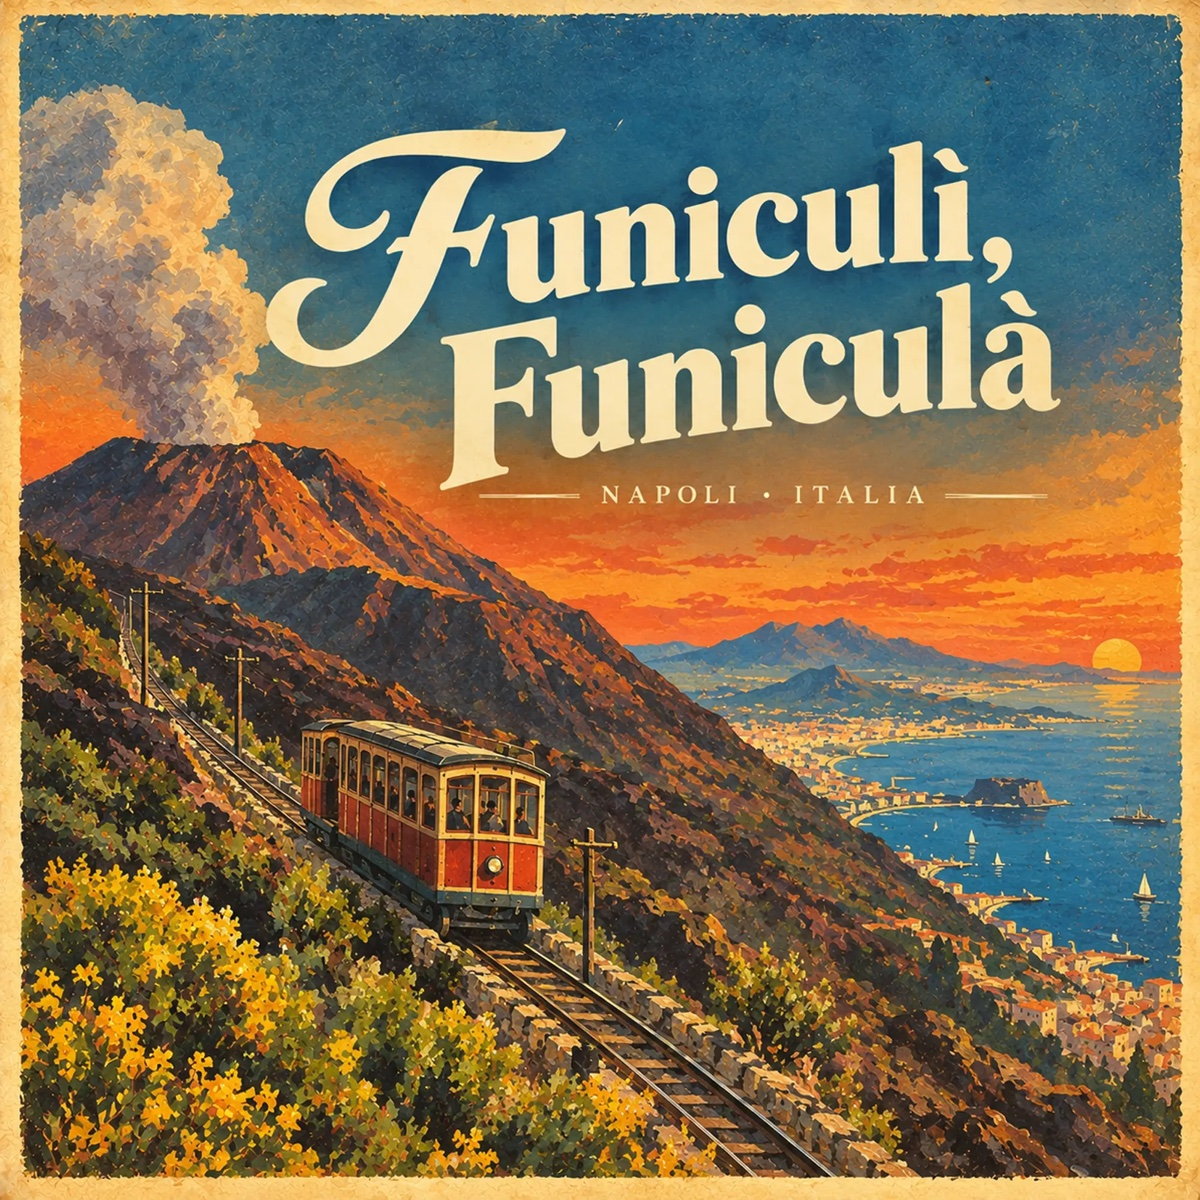
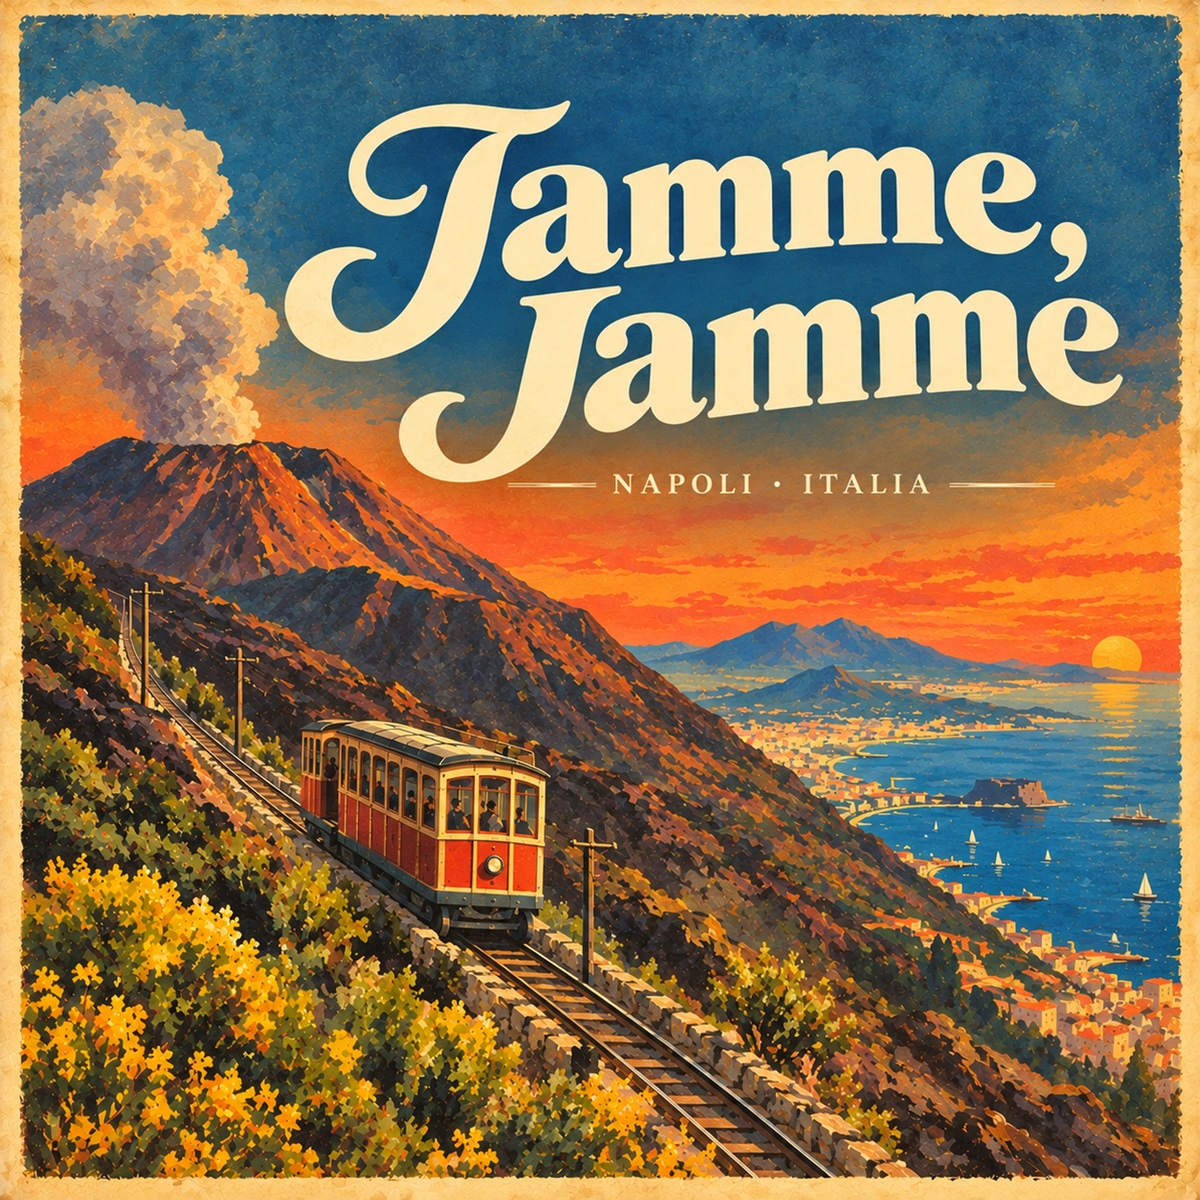
Jamme, Jamme album cover
cover.jpg is now Holly's Jamme, Jamme artwork (1200px), matching the
title under it.

diff --git a/index.html b/index.html
@@ -226,7 +226,7 @@ body:not(.show-status) .status { display: none; }
         <button class="fav" id="fav" aria-label="Favorite"><svg viewBox="0 0 24 24" stroke-width="2" stroke-linecap="round" stroke-linejoin="round"><path d="M20.84 4.61a5.5 5.5 0 0 0-7.78 0L12 5.67l-1.06-1.06a5.5 5.5 0 0 0-7.78 7.78l1.06 1.06L12 21.23l7.78-7.78 1.06-1.06a5.5 5.5 0 0 0 0-7.78z"/></svg></button>
       </header>
 
-      <div class="cover reveal" id="cover" style="--d:.8s"><img src="cover.jpg" alt="Funiculì, Funiculà album cover"></div>
+      <div class="cover reveal" id="cover" style="--d:.8s"><img src="cover.jpg" alt="Jamme, Jamme album cover"></div>
 
       <div class="card reveal" style="--d:1.05s">
         <div class="label">LYRICS</div>
